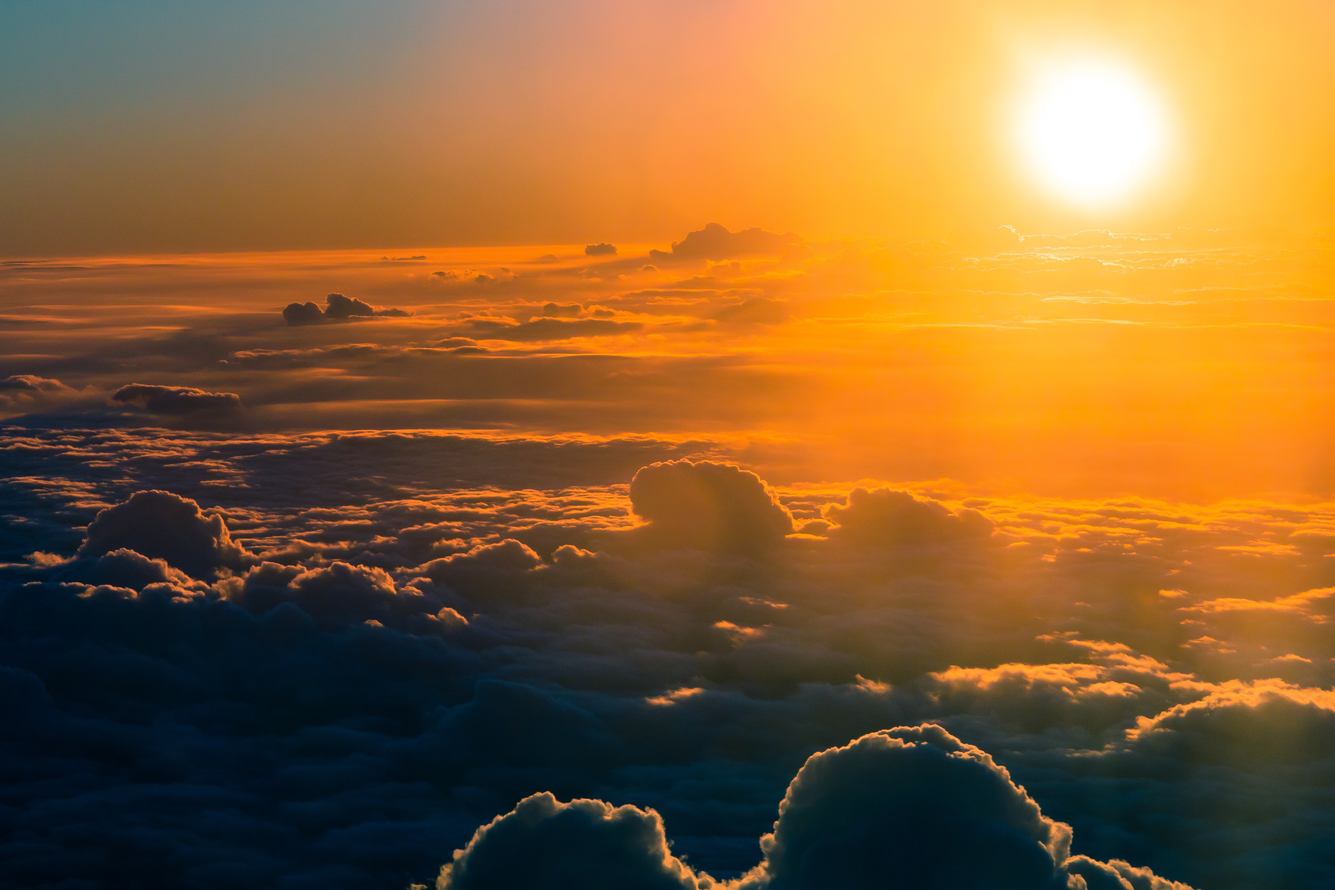
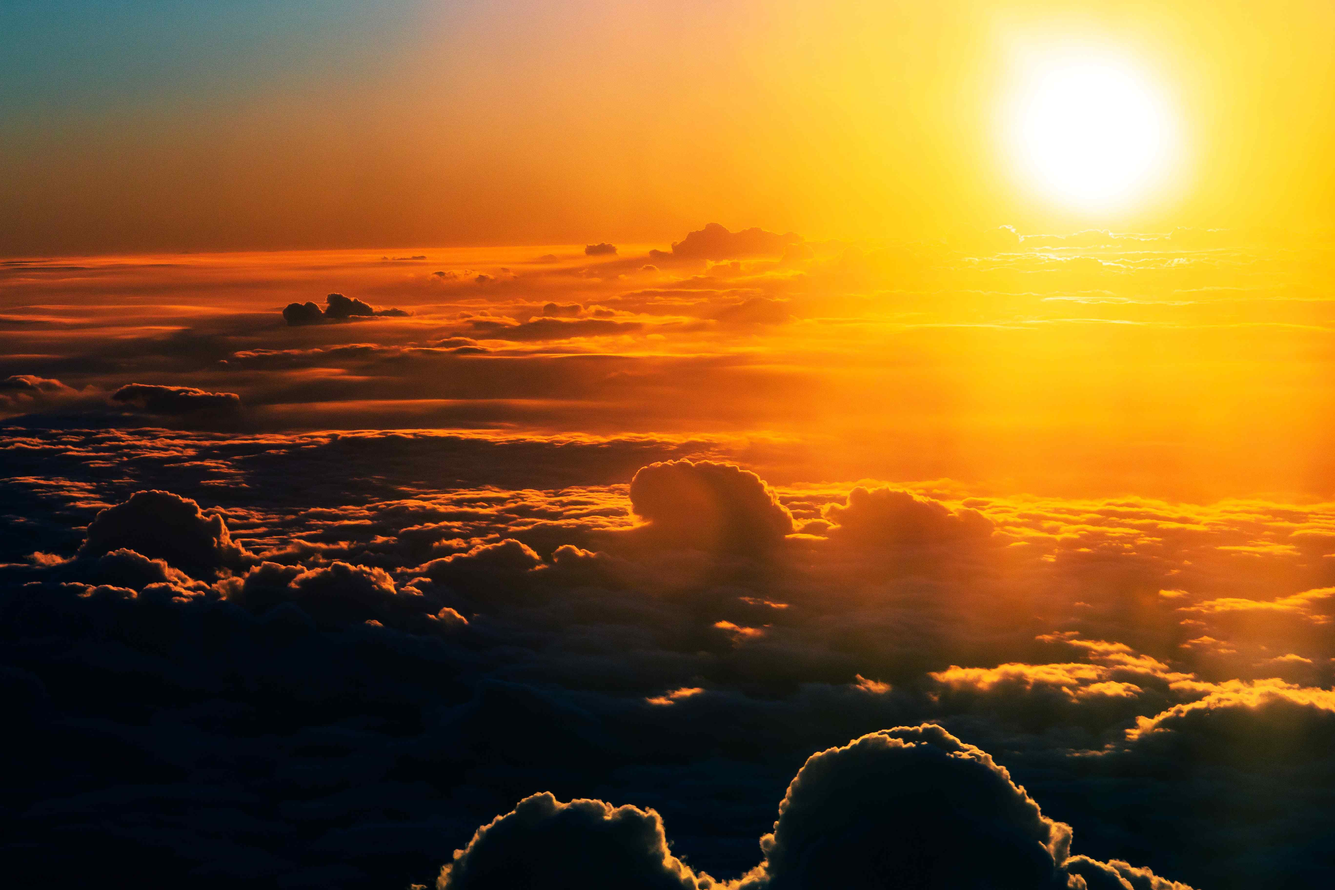
Add the desktop design and optimize the image assets

diff --git a/public/css/main.css b/public/css/main.css
@@ -26,3 +26,128 @@ body {
   font-family: "Inter", sans-serif;
   font-weight: 400;
 }
+
+.heading__secondary {
+  color: inherit;
+  font-family: inherit;
+  font-size: 3.2rem;
+  font-weight: 700;
+  margin-bottom: 2.4rem;
+}
+
+.banner__img {
+  border-radius: 24px;
+  object-fit: cover;
+  height: 44rem;
+  width: 100%;
+}
+
+.icon__desc {
+  display: flex;
+  flex-direction: column;
+  justify-content: center;
+  height: 12rem;
+  width: 20rem;
+}
+
+.weather {
+  background: rgba(255, 255, 255, 0.3);
+  box-shadow: 0 0.8rem 2.4rem 0 rgba(31, 38, 135, 0.25);
+  backdrop-filter: blur(4px);
+  -webkit-backdrop-filter: blur(4px);
+  border-radius: 3.2rem;
+  border: 1px solid rgba(255, 255, 255, 0.18);
+  padding: 4rem 0;
+  margin: 10% auto;
+  width: 90%;
+}
+.weather__container__desc {
+  display: flex;
+  gap: 1.6rem;
+  padding: 6rem 0;
+  height: 100%;
+  width: 100%;
+}
+.weather__current {
+  margin: 0 auto 3.2rem;
+  width: 95%;
+}
+.weather__current__photo {
+  position: relative;
+  background: url("./img/rainy.jpg");
+  height: 100%;
+  width: 100%;
+}
+.weather__current__desc {
+  position: absolute;
+  top: 3.2rem;
+  left: 3.2rem;
+  height: 100%;
+  width: 100%;
+  color: var(--whites);
+  line-height: 1.4;
+}
+.weather__current--desc {
+  font-size: 2.2rem;
+  margin-left: 8px;
+}
+.weather__location {
+  display: block;
+  font-size: 2rem;
+  font-weight: 400;
+}
+.weather__date {
+  display: block;
+  font-size: 1.6rem;
+  font-weight: 400;
+}
+.weather__degrees {
+  font-size: 6rem;
+  font-weight: 700;
+  line-height: 1;
+}
+.weather__daily {
+  margin: 0 auto;
+  width: 95%;
+}
+.weather__daily__container {
+  display: flex;
+  gap: 1.6rem;
+  flex-wrap: wrap;
+}
+.weather__items {
+  display: flex;
+  flex-direction: column;
+  flex: 1;
+  align-items: center;
+  justify-content: center;
+  text-align: center;
+  background-color: var(--cardBackground);
+  border-radius: 12px;
+  font-family: inherit;
+  font-size: 1.6rem;
+  padding: 2rem;
+}
+.weather__icon {
+  color: currentColor;
+  margin-bottom: 1.2rem;
+  height: 7rem;
+  width: 7rem;
+}
+.weather__icon--current {
+  display: flex;
+  align-items: center;
+  justify-content: center;
+  height: 12rem;
+}
+.weather__desc {
+  color: var(--primaryText);
+  font-size: inherit;
+  margin-bottom: 8px;
+}
+.weather__day {
+  color: var(--primaryText);
+  font-size: inherit;
+  font-weight: 600;
+  text-transform: uppercase;
+}

diff --git a/src/sass/components/_cardComponents.scss b/src/sass/components/_cardComponents.scss
@@ -1,0 +1,126 @@
+.weather {
+  // Frosted
+  background: rgba(255, 255, 255, 0.3);
+  box-shadow: 0 0.8rem 2.4rem 0 rgba(31, 38, 135, 0.25);
+  backdrop-filter: blur(4px);
+  -webkit-backdrop-filter: blur(4px);
+  border-radius: 3.2rem;
+  border: 1px solid rgba(255, 255, 255, 0.18);
+
+  padding: 4rem 0;
+  margin: 10% auto;
+  width: 90%;
+
+  &__container__desc {
+    display: flex;
+    gap: 1.6rem;
+
+    padding: 6rem 0;
+    height: 100%;
+    width: 100%;
+  }
+
+  &__current {
+    margin: 0 auto 3.2rem;
+    width: 95%;
+
+    &__photo {
+      position: relative;
+      background: url("./img/rainy.jpg");
+      height: 100%;
+      width: 100%;
+      // border: 2px solid red;
+    }
+
+    &__desc {
+      position: absolute;
+      top: 3.2rem;
+      left: 3.2rem;
+      height: 100%;
+      width: 100%;
+
+      color: var(--whites);
+      line-height: 1.4;
+    }
+
+    &--desc {
+      font-size: 2.2rem;
+      margin-left: 8px;
+    }
+  }
+
+  &__location {
+    display: block;
+    font-size: 2rem;
+    font-weight: 400;
+  }
+
+  &__date {
+    display: block;
+    font-size: 1.6rem;
+    font-weight: 400;
+  }
+
+  &__degrees {
+    font-size: 6rem;
+    font-weight: 700;
+    line-height: 1;
+  }
+
+  &__daily {
+    margin: 0 auto;
+    width: 95%;
+
+    &__container {
+      display: flex;
+      gap: 1.6rem;
+      flex-wrap: wrap;
+    }
+  }
+
+  &__items {
+    display: flex;
+    flex-direction: column;
+    flex: 1;
+    align-items: center;
+    justify-content: center;
+    text-align: center;
+
+    background-color: var(--cardBackground);
+    border-radius: 12px;
+    font-family: inherit;
+    font-size: 1.6rem;
+    padding: 2rem;
+
+    // width: 100%;
+  }
+
+  &__icon {
+    color: currentColor;
+    margin-bottom: 1.2rem;
+    height: 7rem;
+    width: 7rem;
+
+    &--current {
+      display: flex;
+      align-items: center;
+      justify-content: center;
+
+      // border: 2px solid blue;
+      height: 12rem;
+    }
+  }
+
+  &__desc {
+    color: var(--primaryText);
+    font-size: inherit;
+    margin-bottom: 8px;
+  }
+
+  &__day {
+    color: var(--primaryText);
+    font-size: inherit;
+    font-weight: 600;
+    text-transform: uppercase;
+  }
+}

diff --git a/public/index.html b/public/index.html
@@ -14,25 +14,34 @@
   </head>
   <body>
     <section class="weather">
-      <!-- Glass -->
       <div class="weather__container">
-        <!-- col--1 -->
-        <!-- img src would change depending on what the weather is-->
         <div class="weather__current">
           <div class="weather__current__photo">
-            <img src="img/rainy.jpg" alt="rainy" class="banner__img" />
+            <img src="img/foggy.jpg" alt="rainy" class="banner__img" />
             <div class="weather__current__desc">
               <span class="weather__location"
-                >Sta.Maria, Bulacan Philippines</span
+                >Sta.Maria, Bulacan, Philippines</span
               >
               <span class="weather__date">Saturday, May 28</span>
-              <!-- logo -->
-              <span class="weather__degrees">32</span>
-              <span class="weather__current--desc">Moderate Rain</span>
+
+              <div class="weather__container__desc">
+                <div class="weather__icon--current">
+                  <img
+                    src="./img/icons/weather-fog.svg"
+                    alt="rainy"
+                    class="weather__icon"
+                  />
+                </div>
+
+                <div class="icon__desc">
+                  <span class="weather__degrees">32°</span>
+                  <span class="weather__current--desc">Mist</span>
+                </div>
+              </div>
             </div>
           </div>
         </div>
-        <!-- col--2 -->
+
         <div class="weather__daily">
           <h2 class="heading__secondary">Daily Forecast</h2>
           <div class="weather__daily__container">

diff --git a/src/index.html b/src/index.html
@@ -14,25 +14,34 @@
   </head>
   <body>
     <section class="weather">
-      <!-- Glass -->
       <div class="weather__container">
-        <!-- col--1 -->
-        <!-- img src would change depending on what the weather is-->
         <div class="weather__current">
           <div class="weather__current__photo">
-            <img src="img/rainy.jpg" alt="rainy" class="banner__img" />
+            <img src="img/foggy.jpg" alt="rainy" class="banner__img" />
             <div class="weather__current__desc">
               <span class="weather__location"
-                >Sta.Maria, Bulacan Philippines</span
+                >Sta.Maria, Bulacan, Philippines</span
               >
               <span class="weather__date">Saturday, May 28</span>
-              <!-- logo -->
-              <span class="weather__degrees">32</span>
-              <span class="weather__current--desc">Moderate Rain</span>
+
+              <div class="weather__container__desc">
+                <div class="weather__icon--current">
+                  <img
+                    src="./img/icons/weather-fog.svg"
+                    alt="rainy"
+                    class="weather__icon"
+                  />
+                </div>
+
+                <div class="icon__desc">
+                  <span class="weather__degrees">32°</span>
+                  <span class="weather__current--desc">Mist</span>
+                </div>
+              </div>
             </div>
           </div>
         </div>
-        <!-- col--2 -->
+
         <div class="weather__daily">
           <h2 class="heading__secondary">Daily Forecast</h2>
           <div class="weather__daily__container">

diff --git a/src/sass/base/_utilities.scss b/src/sass/base/_utilities.scss
@@ -1,0 +1,26 @@
+//  Utilities
+.heading__secondary {
+  color: inherit;
+  font-family: inherit;
+  font-size: 3.2rem;
+  font-weight: 700;
+
+  margin-bottom: 2.4rem;
+}
+
+.banner__img {
+  border-radius: 24px;
+  object-fit: cover;
+  height: 44rem;
+  width: 100%;
+}
+
+.icon__desc {
+  display: flex;
+  flex-direction: column;
+  justify-content: center;
+
+  // border: 2px solid red;
+  height: 12rem;
+  width: 20rem;
+}

diff --git a/src/sass/main.scss b/src/sass/main.scss
@@ -1,3 +1,5 @@
 @use "base/colors";
 @use "base/reset";
+@use "base/utilities";
+
 @use "components/cardComponents";
